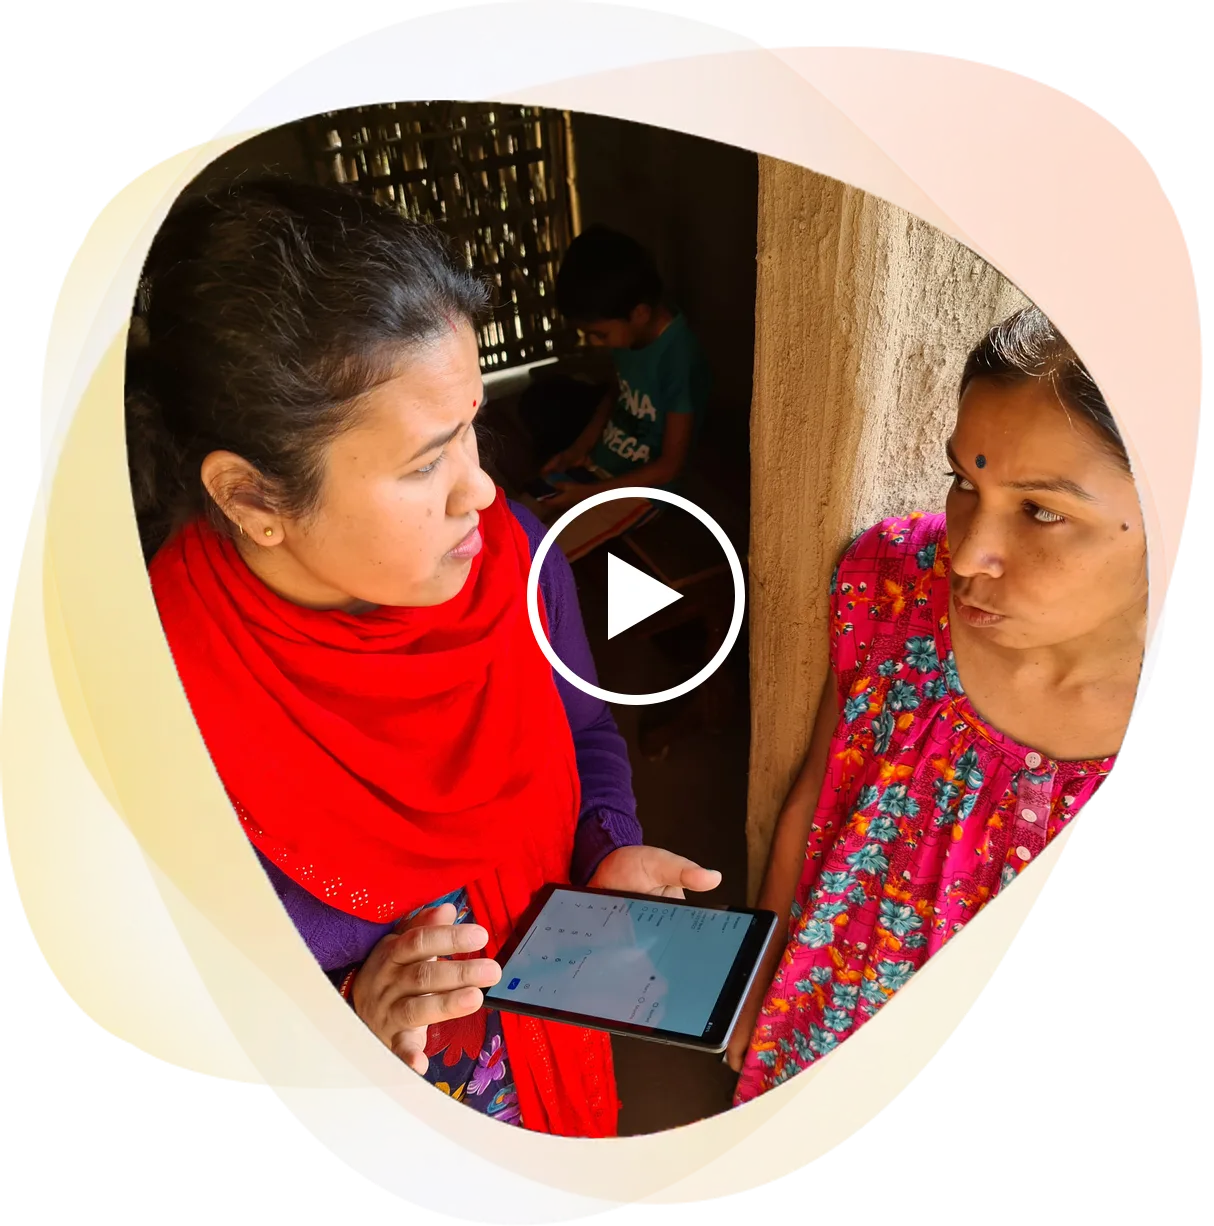
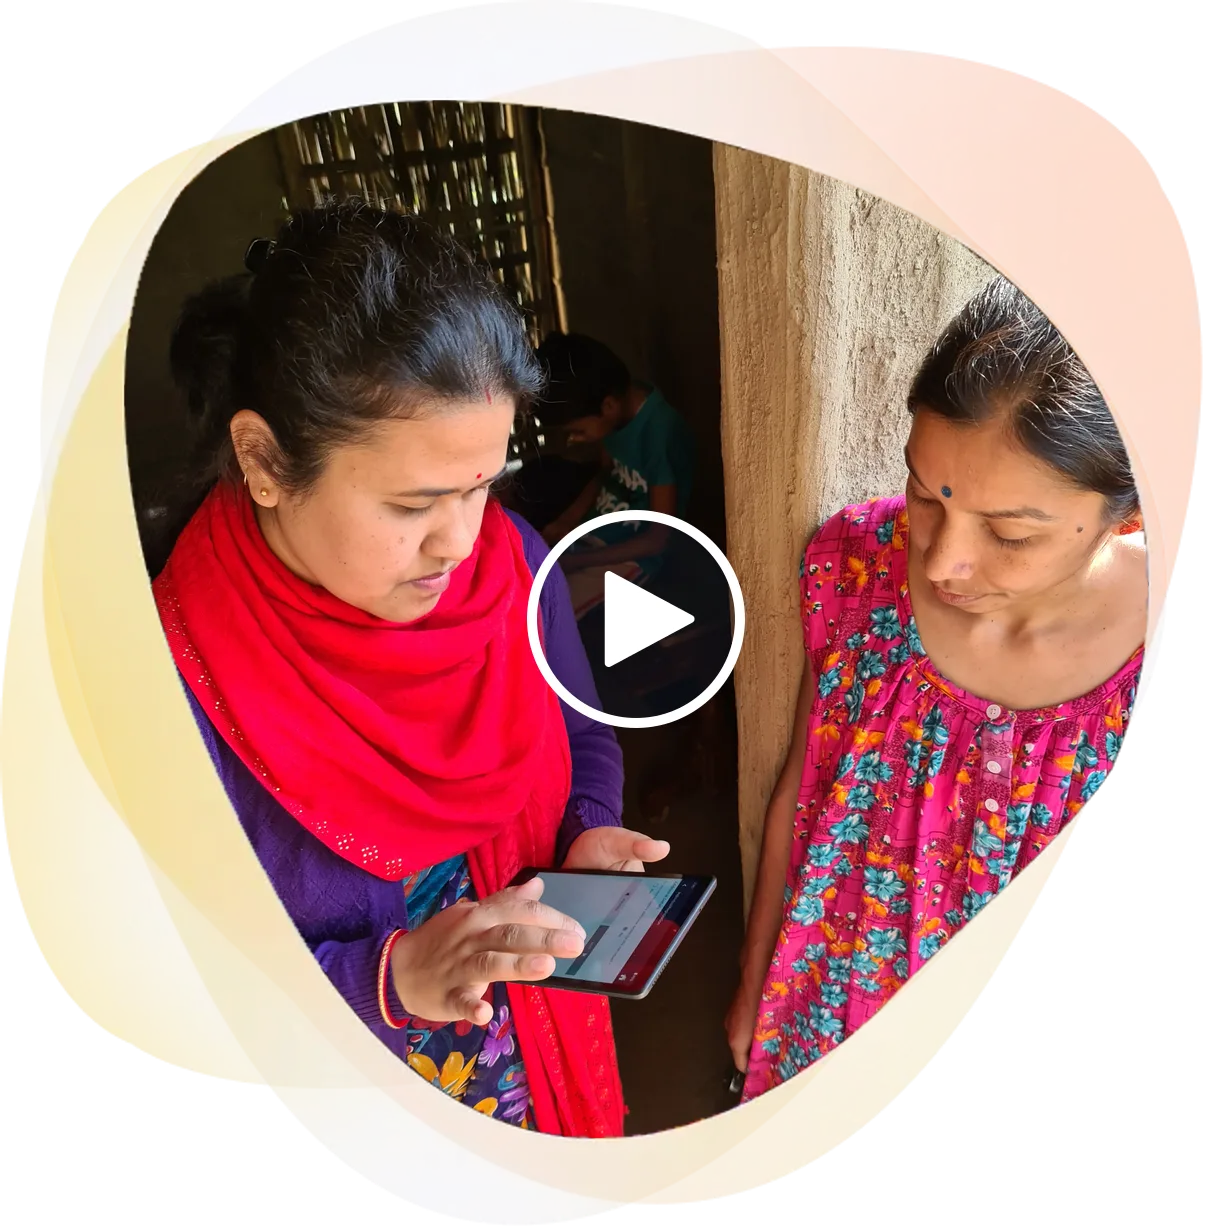
Homepage hero: back to the blob frame, with the new photo and a centred play button

diff --git a/components/sections/Hero.tsx b/components/sections/Hero.tsx
@@ -90,7 +90,7 @@ export default function Hero() {
               aria-label="Play Avni platform video"
             >
               <Image
-                src="/hero-banner.webp"
+                src="/hero-main.webp"
                 alt="A health worker using Avni on a tablet during a home visit"
                 width={600}
                 height={600}

diff --git a/app/layout.tsx b/app/layout.tsx
@@ -107,7 +107,7 @@ export default function RootLayout({
         <link 
           rel="preload" 
           as="image" 
-          href="/hero-banner.webp" 
+          href="/hero-main.webp" 
           type="image/webp"
         />
         
